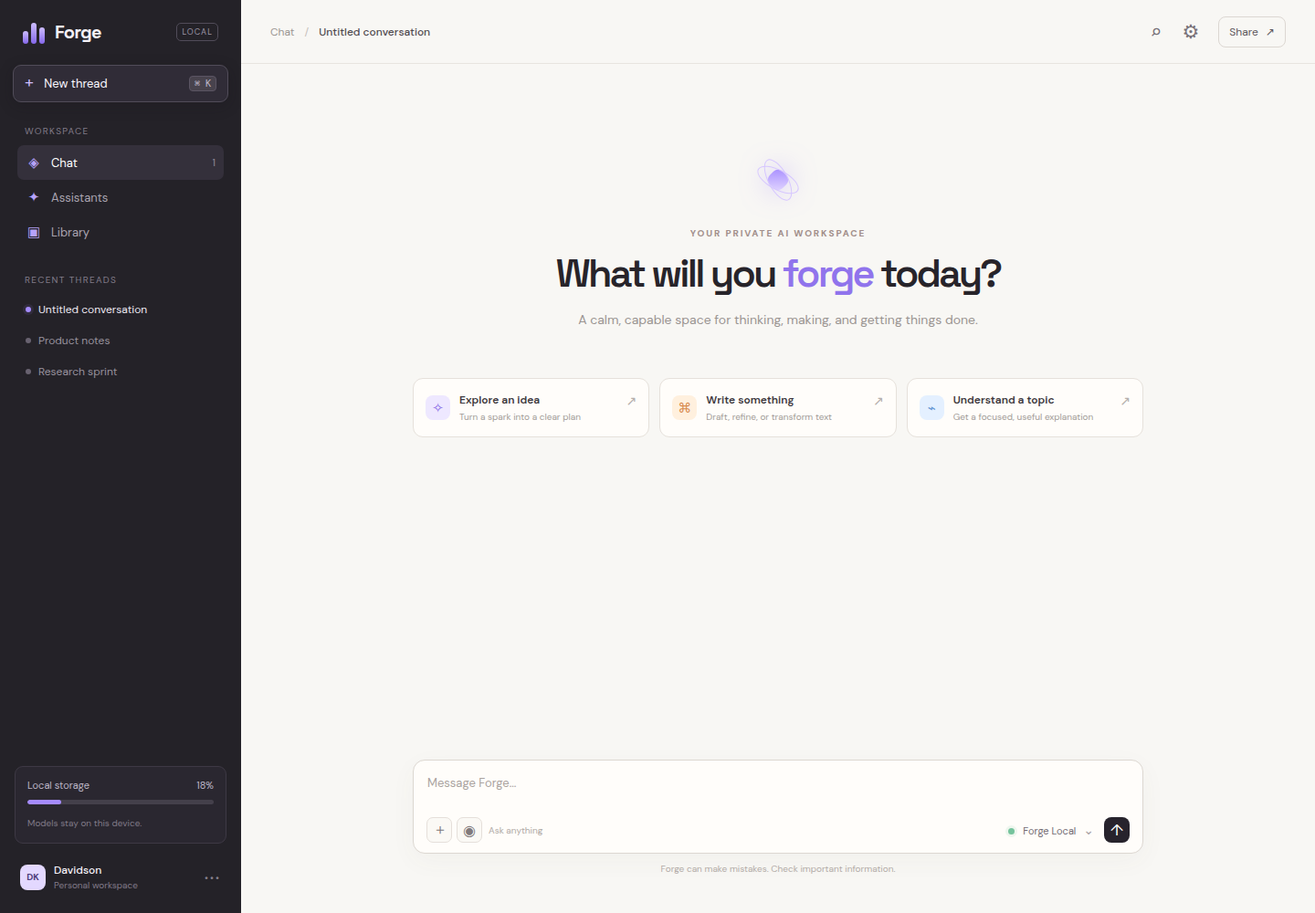
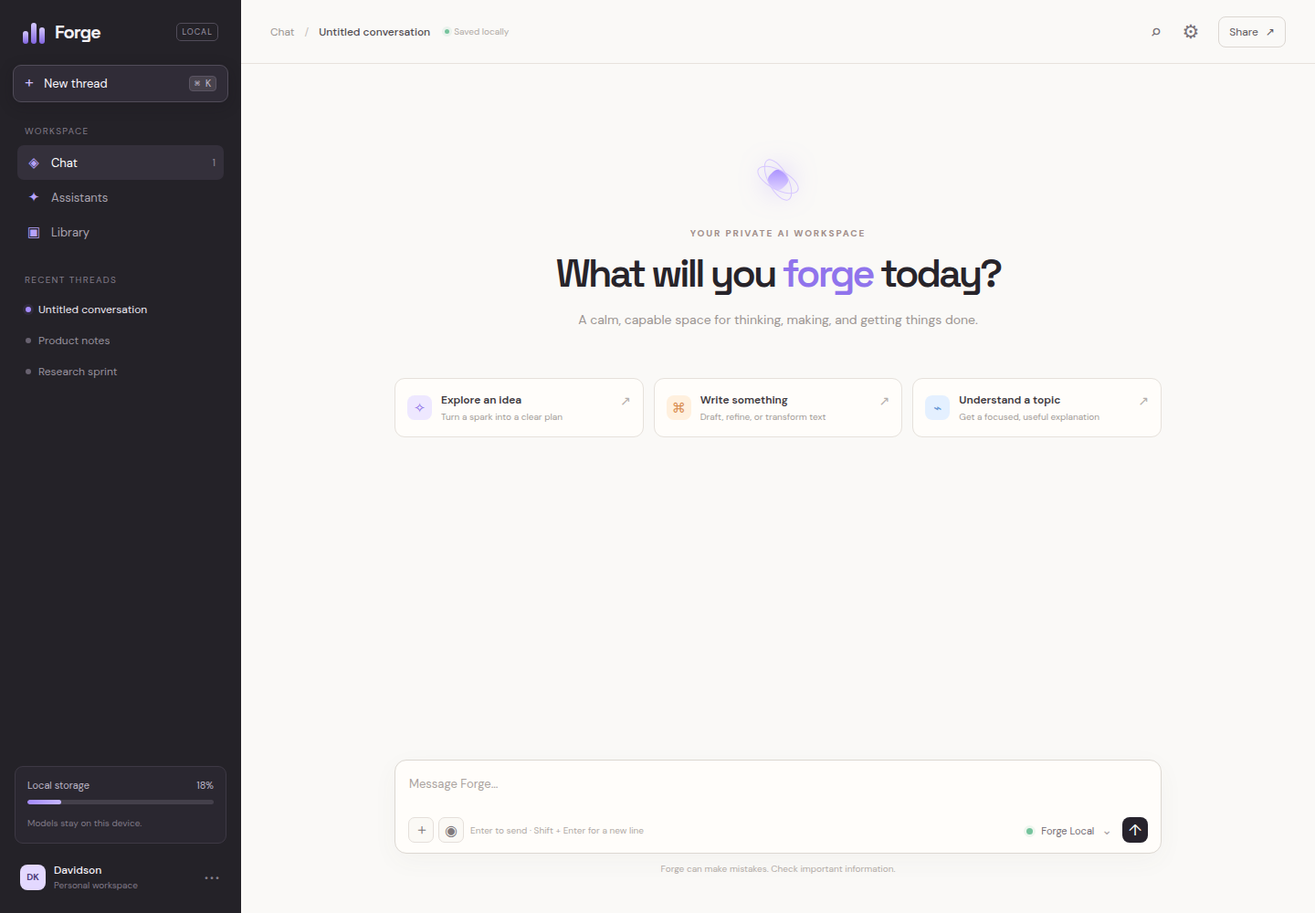
Refine Forge UI with polished interaction states

diff --git a/styles.css b/styles.css
@@ -1,1 +1,1 @@
-:root{--ink:#16151a;--muted:#85818a;--line:#e8e4df;--paper:#f8f7f4;--panel:#242228;--panel-soft:#2d2a32;--accent:#a58bff;--accent-2:#d7c9ff;--orange:#f2a36d}*{box-sizing:border-box}body{margin:0;background:var(--paper);color:var(--ink);font-family:'DM Sans',sans-serif}button,textarea{font:inherit}.app-shell{display:flex;min-height:100vh}.sidebar{width:264px;background:var(--panel);color:#f4f1f6;padding:22px 14px 16px;display:flex;flex-direction:column}.brand-row{display:flex;align-items:center;gap:10px;padding:0 11px 23px}.brand-name{font-family:'Space Grotesk',sans-serif;font-size:20px;font-weight:700;letter-spacing:-.04em}.brand-badge{font-size:9px;letter-spacing:.12em;color:#9d96a7;border:1px solid #514c59;border-radius:5px;padding:3px 5px;margin-left:auto}.forge-mark{height:25px;width:25px;display:flex;align-items:flex-end;gap:3px}.forge-mark span{display:block;width:6px;border-radius:5px;background:linear-gradient(#cdbdff,#8467ea)}.forge-mark span:nth-child(1){height:14px}.forge-mark span:nth-child(2){height:23px}.forge-mark span:nth-child(3){height:18px}.new-chat{width:100%;border:1px solid #514c59;background:#302c37;color:#faf8ff;border-radius:9px;padding:11px 12px;text-align:left;font-size:13px;cursor:pointer;box-shadow:0 4px 15px #15141a44}.new-chat:hover{background:#383441}.plus{font-size:18px;line-height:0;margin-right:8px;color:#cdbdff}.new-chat kbd{float:right;background:#48434d;border:1px solid #5b5563;color:#beb7c8;border-radius:4px;padding:2px 5px;font-size:10px}.side-section{padding:25px 5px 0}.section-label{color:#817b89;text-transform:uppercase;letter-spacing:.13em;font-size:10px;margin:0 8px 9px}.nav-item,.thread-item{width:100%;border:0;background:transparent;color:#aaa4b0;display:flex;align-items:center;gap:10px;text-align:left;border-radius:7px;padding:9px 9px;font-size:13px;cursor:pointer}.nav-item.active,.nav-item:hover,.thread-item:hover{background:#34303b;color:#fff}.nav-icon{width:18px;color:#b6a2fa;text-align:center;font-size:15px}.nav-count{margin-left:auto;color:#938d9c;font-size:11px}.recent-section{padding-top:27px}.thread-item{font-size:12px;color:#98929e;gap:8px}.thread-item.selected{color:#eee9f3}.thread-dot{height:6px;width:6px;border-radius:50%;background:#a58bff;box-shadow:0 0 0 3px #a58bff1a}.thread-dot.dim{background:#686270;box-shadow:none}.sidebar-bottom{margin-top:auto}.usage-card{padding:13px;margin:0 2px 13px;border:1px solid #3e3945;background:#2a2730;border-radius:9px}.usage-top{display:flex;justify-content:space-between;color:#beb7c8;font-size:11px}.usage-bar{height:5px;background:#44404b;border-radius:8px;margin:9px 0 8px;overflow:hidden}.usage-bar i{display:block;width:18%;height:100%;background:#a58bff;border-radius:8px}.usage-card small{color:#817b89;font-size:10px}.account{width:100%;border:0;background:transparent;color:#f7f3fa;display:flex;align-items:center;text-align:left;gap:9px;padding:8px;cursor:pointer;border-radius:8px}.account:hover{background:#302d37}.avatar{display:grid;place-items:center;width:28px;height:28px;border-radius:8px;background:#e3d8ff;color:#4d3a79;font-size:10px;font-weight:700}.account strong,.account small{display:block}.account strong{font-size:12px;font-weight:500}.account small{color:#827b8a;font-size:10px;margin-top:2px}.more{margin-left:auto;color:#898290;font-size:11px;letter-spacing:2px}.main-panel{flex:1;min-width:0;background:var(--paper)}.topbar{height:70px;border-bottom:1px solid var(--line);display:flex;align-items:center;justify-content:space-between;padding:0 32px}.breadcrumbs{display:flex;gap:11px;align-items:center;color:#9b9692;font-size:12px}.breadcrumbs strong{font-weight:500;color:#504b50}.crumb-separator{color:#c6c0bb}.top-actions{display:flex;align-items:center;gap:7px}.icon-button,.share-button{border:0;background:transparent;color:#777178;cursor:pointer}.icon-button{font-size:21px;width:31px;height:31px;border-radius:8px}.icon-button:hover{background:#ece9e4}.share-button{margin-left:8px;border:1px solid #dcd7d2;border-radius:8px;padding:8px 11px;color:#5e585d;font-size:12px}.share-button span{margin-left:5px}.chat-stage{max-width:880px;margin:0 auto;padding:98px 40px 42px;min-height:calc(100vh - 70px);display:flex;flex-direction:column}.welcome-block{text-align:center}.orbital-mark{width:58px;height:58px;margin:0 auto 23px;position:relative;display:grid;place-items:center}.orb-core{width:20px;height:20px;border-radius:7px;background:linear-gradient(135deg,#a58bff,#e4d9ff);box-shadow:0 0 30px #a58bff99;transform:rotate(45deg)}.orb-ring{position:absolute;border:1px solid #d5c5ff;border-radius:50%;transform:rotate(-28deg)}.ring-one{height:50px;width:22px}.ring-two{height:22px;width:50px;transform:rotate(28deg)}.eyebrow{margin:0 0 10px;color:#a18e8a;font-size:10px;letter-spacing:.19em;font-weight:700}.welcome-block h1{font-family:'Space Grotesk',sans-serif;font-size:43px;letter-spacing:-.065em;margin:0;color:#27242a;font-weight:600}.welcome-block h1 em{font-style:normal;color:#9074ec}.subcopy{font-size:14px;color:#9a9491;margin:14px 0 0}.starter-grid{display:grid;grid-template-columns:repeat(3,1fr);gap:11px;margin-top:55px}.starter-card{border:1px solid #e6e1db;background:#fffdfa;border-radius:11px;padding:15px 13px;display:flex;align-items:center;gap:10px;text-align:left;cursor:pointer;transition:transform .18s,box-shadow .18s,border-color .18s}.starter-card:hover{transform:translateY(-2px);border-color:#cbbaf7;box-shadow:0 10px 22px #443c2e0a}.starter-card strong,.starter-card small{display:block}.starter-card strong{font-size:12px;color:#3e393e;font-weight:600}.starter-card small{font-size:10px;color:#a29c98;margin-top:4px;line-height:1.3}.card-icon{width:27px;height:27px;border-radius:8px;display:grid;place-items:center;font-size:15px;flex:none}.violet{background:#eee8ff;color:#8f72e8}.amber{background:#fff0de;color:#d88b4f}.blue{background:#e4f0ff;color:#6597d5}.arrow{color:#b5afac;margin-left:auto;font-size:14px;align-self:flex-start}.composer-wrap{margin-top:auto;padding-top:74px}.composer{background:#fffdfa;border:1px solid #dcd7d1;box-shadow:0 8px 28px #65594c0b;border-radius:13px;padding:14px 14px 10px}.composer:focus-within{border-color:#b8a4f4;box-shadow:0 0 0 3px #b8a4f425}.composer textarea{width:100%;border:0;resize:none;outline:0;min-height:34px;color:#343037;background:transparent;font-size:13px;padding:2px 1px}.composer textarea::placeholder{color:#aaa39f}.composer-toolbar{display:flex;justify-content:space-between;align-items:center;margin-top:8px}.composer-tools,.composer-right{display:flex;align-items:center;gap:5px}.tool-button{height:28px;width:28px;border:1px solid #e5dfda;border-radius:7px;background:#fbf9f5;color:#817a7c;cursor:pointer}.tool-button:hover{background:#f3eee9}.tool-hint{font-size:10px;color:#b0a9a5;margin-left:2px}.model-button{border:0;background:transparent;color:#726a72;font-size:11px;cursor:pointer;padding:6px}.status-dot{display:inline-block;width:7px;height:7px;border-radius:50%;background:#75c39c;margin-right:6px;box-shadow:0 0 0 3px #75c39c1f}.status-dot.cloud{background:#9e8ade}.chevron{font-size:14px;margin-left:5px;color:#aaa2a5}.send-button{width:28px;height:28px;border:0;border-radius:8px;background:#27232c;color:#fff;font-size:17px;cursor:pointer}.send-button:hover{background:#8f72e8}.composer-note{text-align:center;margin:10px 0 0;color:#b3aca8;font-size:10px}.toast{position:fixed;bottom:22px;left:50%;transform:translate(-50%,12px);opacity:0;background:#28242e;color:#fff;padding:9px 13px;border-radius:8px;font-size:12px;transition:.25s;pointer-events:none}.toast.show{opacity:1;transform:translate(-50%,0)}.model-menu{display:none;position:fixed;right:55px;bottom:94px;width:230px;background:#fffdfa;border:1px solid #ded8d2;border-radius:10px;padding:9px;box-shadow:0 15px 40px #4c423b20}.model-menu.open{display:block}.model-menu p{color:#a19b96;text-transform:uppercase;letter-spacing:.12em;font-size:9px;margin:5px 8px 8px}.model-option{width:100%;display:flex;align-items:center;gap:9px;border:0;background:transparent;border-radius:7px;padding:9px 7px;text-align:left;color:#5a5459;cursor:pointer}.model-option:hover{background:#f3eee9}.model-option span:nth-child(2){flex:1}.model-option strong,.model-option small{display:block}.model-option strong{font-size:11px;font-weight:600}.model-option small{font-size:9px;color:#aaa29d;margin-top:3px}@media(max-width:800px){.sidebar{width:218px}.chat-stage{padding:68px 24px 30px}.starter-grid{grid-template-columns:1fr}.composer-wrap{padding-top:48px}.welcome-block h1{font-size:35px}.topbar{padding:0 20px}}@media(max-width:620px){.sidebar{display:none}.topbar{height:60px}.chat-stage{padding:52px 17px 25px}.welcome-block h1{font-size:31px}.subcopy{font-size:13px}.starter-grid{margin-top:38px}.composer-wrap{padding-top:45px}.top-actions .icon-button:first-child{display:none}}
+:root{--ink:#16151a;--ink-soft:#3e393f;--muted:#8d8785;--line:#e7e2dd;--paper:#faf9f7;--card:#fffdfa;--panel:#242228;--panel-2:#2c2931;--accent:#a58bff;--accent-deep:#8b6fe5;--green:#75c39c;--ease:cubic-bezier(.2,.8,.2,1)}*{box-sizing:border-box}html{background:var(--paper)}body{margin:0;background:var(--paper);color:var(--ink);font-family:'DM Sans',sans-serif;-webkit-font-smoothing:antialiased}button,textarea{font:inherit}button{appearance:none}.app-shell{display:flex;min-height:100vh}.sidebar{width:264px;flex:0 0 264px;background:var(--panel);color:#f4f1f6;padding:22px 14px 16px;display:flex;flex-direction:column}.brand-row{display:flex;align-items:center;gap:10px;padding:0 11px 23px}.brand-name{font-family:'Space Grotesk',sans-serif;font-size:20px;font-weight:700;letter-spacing:-.05em}.brand-badge{font-size:9px;letter-spacing:.12em;color:#9d96a7;border:1px solid #514c59;border-radius:5px;padding:3px 5px;margin-left:auto}.forge-mark{height:25px;width:25px;display:flex;align-items:flex-end;gap:3px}.forge-mark span{display:block;width:6px;border-radius:5px;background:linear-gradient(#d6caff,#8064df)}.forge-mark span:nth-child(1){height:14px}.forge-mark span:nth-child(2){height:23px}.forge-mark span:nth-child(3){height:18px}.new-chat{width:100%;border:1px solid #514c59;background:#302c37;color:#faf8ff;border-radius:9px;padding:11px 12px;text-align:left;font-size:13px;cursor:pointer;box-shadow:0 4px 15px #15141a44;transition:background .18s,transform .18s,border-color .18s}.new-chat:hover{background:#393440;border-color:#6a6275}.new-chat:active{transform:scale(.985)}.plus{font-size:18px;line-height:0;margin-right:8px;color:#cdbdff}.new-chat kbd{float:right;background:#48434d;border:1px solid #5b5563;color:#beb7c8;border-radius:4px;padding:2px 5px;font-size:10px}.side-section{padding:25px 5px 0}.section-label{color:#817b89;text-transform:uppercase;letter-spacing:.13em;font-size:10px;margin:0 8px 9px}.nav-item,.thread-item{width:100%;border:0;background:transparent;color:#aaa4b0;display:flex;align-items:center;gap:10px;text-align:left;border-radius:7px;padding:9px 9px;font-size:13px;cursor:pointer;transition:background .18s,color .18s}.nav-item.active,.nav-item:hover,.thread-item:hover{background:#34303b;color:#fff}.nav-icon{width:18px;color:#b6a2fa;text-align:center;font-size:15px}.nav-count{margin-left:auto;color:#938d9c;font-size:11px}.recent-section{padding-top:27px}.thread-item{font-size:12px;color:#98929e;gap:8px}.thread-title{overflow:hidden;text-overflow:ellipsis;white-space:nowrap}.thread-item.selected{color:#eee9f3}.thread-dot{height:6px;width:6px;flex:0 0 6px;border-radius:50%;background:var(--accent);box-shadow:0 0 0 3px #a58bff1a}.thread-dot.dim{background:#686270;box-shadow:none}.sidebar-bottom{margin-top:auto}.usage-card{padding:13px;margin:0 2px 13px;border:1px solid #3e3945;background:#2a2730;border-radius:9px}.usage-top{display:flex;justify-content:space-between;color:#beb7c8;font-size:11px}.usage-bar{height:5px;background:#44404b;border-radius:8px;margin:9px 0 8px;overflow:hidden}.usage-bar i{display:block;width:18%;height:100%;background:linear-gradient(90deg,#a58bff,#c4b6ff);border-radius:8px}.usage-card small{color:#817b89;font-size:10px}.account{width:100%;border:0;background:transparent;color:#f7f3fa;display:flex;align-items:center;text-align:left;gap:9px;padding:8px;border-radius:8px;cursor:pointer}.account:hover{background:#302d37}.avatar{display:grid;place-items:center;width:28px;height:28px;border-radius:8px;background:#e3d8ff;color:#4d3a79;font-size:10px;font-weight:700}.account strong,.account small{display:block}.account strong{font-size:12px;font-weight:500}.account small{color:#827b8a;font-size:10px;margin-top:2px}.more{margin-left:auto;color:#898290;font-size:11px;letter-spacing:2px}.main-panel{flex:1;min-width:0;background:var(--paper)}.topbar{height:70px;border-bottom:1px solid var(--line);display:flex;align-items:center;justify-content:space-between;padding:0 32px}.breadcrumbs{display:flex;gap:11px;align-items:center;min-width:0;color:#9b9692;font-size:12px}.breadcrumbs strong{font-weight:500;color:#504b50;white-space:nowrap;overflow:hidden;text-overflow:ellipsis}.crumb-separator{color:#c6c0bb}.saved-state{display:inline-flex;align-items:center;gap:5px;color:#b0aaa5;font-size:10px;margin-left:5px;white-space:nowrap}.saved-dot{width:5px;height:5px;border-radius:50%;background:var(--green);box-shadow:0 0 0 3px #75c39c1d}.top-actions{display:flex;align-items:center;gap:7px}.icon-button,.share-button{border:0;background:transparent;color:#777178;cursor:pointer;transition:background .18s,color .18s}.icon-button{font-size:21px;width:31px;height:31px;border-radius:8px}.icon-button:hover{background:#ece9e4;color:#403a40}.share-button{margin-left:8px;border:1px solid #dcd7d2;border-radius:8px;padding:8px 11px;color:#5e585d;font-size:12px}.share-button:hover{background:#fffdfa;border-color:#bdb4ac}.share-button span{margin-left:5px}.chat-stage{max-width:920px;margin:0 auto;padding:98px 40px 42px;min-height:calc(100vh - 70px);display:flex;flex-direction:column;transition:max-width .3s var(--ease)}.welcome-block{text-align:center;transition:opacity .25s,transform .35s var(--ease)}.orbital-mark{width:58px;height:58px;margin:0 auto 23px;position:relative;display:grid;place-items:center}.orb-core{width:20px;height:20px;border-radius:7px;background:linear-gradient(135deg,#a58bff,#e4d9ff);box-shadow:0 0 30px #a58bff99;transform:rotate(45deg)}.orb-ring{position:absolute;border:1px solid #d5c5ff;border-radius:50%;transform:rotate(-28deg)}.ring-one{height:50px;width:22px}.ring-two{height:22px;width:50px;transform:rotate(28deg)}.eyebrow{margin:0 0 10px;color:#a18e8a;font-size:10px;letter-spacing:.19em;font-weight:700}.welcome-block h1{font-family:'Space Grotesk',sans-serif;font-size:43px;letter-spacing:-.065em;margin:0;color:#27242a;font-weight:600}.welcome-block h1 em{font-style:normal;color:#9074ec}.subcopy{font-size:14px;color:#9a9491;margin:14px 0 0}.starter-grid{display:grid;grid-template-columns:repeat(3,1fr);gap:11px;margin-top:55px;transition:opacity .25s,transform .35s var(--ease)}.starter-card{border:1px solid #e6e1db;background:var(--card);border-radius:11px;padding:15px 13px;display:flex;align-items:center;gap:10px;text-align:left;cursor:pointer;transition:transform .18s var(--ease),box-shadow .18s,border-color .18s,background .18s}.starter-card:hover{transform:translateY(-2px);border-color:#cbbaf7;box-shadow:0 10px 22px #443c2e0a;background:#fff}.starter-card:active{transform:translateY(0) scale(.99)}.starter-card strong,.starter-card small{display:block}.starter-card strong{font-size:12px;color:#3e393e;font-weight:600}.starter-card small{font-size:10px;color:#a29c98;margin-top:4px;line-height:1.3}.card-icon{width:27px;height:27px;border-radius:8px;display:grid;place-items:center;font-size:15px;flex:none}.violet{background:#eee8ff;color:#8f72e8}.amber{background:#fff0de;color:#d88b4f}.blue{background:#e4f0ff;color:#6597d5}.arrow{color:#b5afac;margin-left:auto;font-size:14px;align-self:flex-start}.conversation{display:none;flex-direction:column;gap:25px;max-width:760px;width:100%;margin:0 auto 22px;padding-top:20px}.chat-stage.has-messages{padding-top:42px}.chat-stage.has-messages .welcome-block,.chat-stage.has-messages .starter-grid{display:none}.chat-stage.has-messages .conversation{display:flex}.message{display:flex;gap:12px;animation:rise .32s var(--ease) both}.message.user{justify-content:flex-end}.message-avatar{width:28px;height:28px;flex:0 0 28px;border-radius:9px;display:grid;place-items:center;font-size:10px;font-weight:700}.message-avatar.forge{background:#eee8ff;color:#7d62d7}.message-avatar.user{background:#e3d8ff;color:#4d3a79;order:2}.message-body{max-width:75%;font-size:14px;line-height:1.6;color:#454047}.user .message-body{background:#27232c;color:#fff;border-radius:16px 16px 4px 16px;padding:11px 14px}.assistant .message-body{padding-top:3px}.message-label{font-size:10px;font-weight:700;letter-spacing:.08em;text-transform:uppercase;color:#9e9692;margin-bottom:6px}.typing-dots{display:inline-flex;gap:4px;padding:8px 0}.typing-dots i{height:5px;width:5px;border-radius:50%;background:#a58bff;animation:blink 1s infinite}.typing-dots i:nth-child(2){animation-delay:.15s}.typing-dots i:nth-child(3){animation-delay:.3s}@keyframes rise{from{opacity:0;transform:translateY(8px)}to{opacity:1;transform:none}}@keyframes blink{0%,80%,100%{opacity:.25;transform:scale(.8)}40%{opacity:1;transform:scale(1)}}.composer-wrap{margin-top:auto;padding-top:74px}.chat-stage.has-messages .composer-wrap{padding-top:10px}.composer{background:var(--card);border:1px solid #dcd7d1;box-shadow:0 8px 28px #65594c0b;border-radius:13px;padding:14px 14px 10px;transition:border-color .18s,box-shadow .18s}.composer:focus-within{border-color:#b8a4f4;box-shadow:0 0 0 3px #b8a4f425,0 10px 30px #65594c0c}.composer textarea{width:100%;border:0;resize:none;outline:0;min-height:34px;max-height:140px;color:#343037;background:transparent;font-size:13px;line-height:1.5;padding:2px 1px}.composer textarea::placeholder{color:#aaa39f}.composer-toolbar{display:flex;justify-content:space-between;align-items:center;margin-top:8px}.composer-tools,.composer-right{display:flex;align-items:center;gap:5px}.tool-button{height:28px;width:28px;border:1px solid #e5dfda;border-radius:7px;background:#fbf9f5;color:#817a7c;cursor:pointer;transition:background .18s,border-color .18s}.tool-button:hover{background:#f3eee9;border-color:#d7cec6}.tool-hint{font-size:10px;color:#b0a9a5;margin-left:2px}.model-button{border:0;background:transparent;color:#726a72;font-size:11px;cursor:pointer;padding:6px;border-radius:6px}.model-button:hover{background:#f3eee9}.status-dot{display:inline-block;width:7px;height:7px;border-radius:50%;background:var(--green);margin-right:6px;box-shadow:0 0 0 3px #75c39c1f}.status-dot.cloud{background:#9e8ade}.chevron{font-size:14px;margin-left:5px;color:#aaa2a5}.send-button{width:28px;height:28px;border:0;border-radius:8px;background:#27232c;color:#fff;font-size:17px;cursor:pointer;transition:background .18s,transform .18s}.send-button:hover{background:var(--accent-deep)}.send-button:active{transform:scale(.9)}.composer-note{text-align:center;margin:10px 0 0;color:#b3aca8;font-size:10px}.toast{position:fixed;bottom:22px;left:50%;transform:translate(-50%,12px);opacity:0;background:#28242e;color:#fff;padding:9px 13px;border-radius:8px;font-size:12px;transition:.25s;pointer-events:none;box-shadow:0 10px 25px #28242e20}.toast.show{opacity:1;transform:translate(-50%,0)}.model-menu{display:none;position:fixed;right:55px;bottom:94px;width:230px;background:var(--card);border:1px solid #ded8d2;border-radius:10px;padding:9px;box-shadow:0 15px 40px #4c423b20;z-index:5}.model-menu.open{display:block;animation:rise .18s var(--ease)}.model-menu p{color:#a19b96;text-transform:uppercase;letter-spacing:.12em;font-size:9px;margin:5px 8px 8px}.model-option{width:100%;display:flex;align-items:center;gap:9px;border:0;background:transparent;border-radius:7px;padding:9px 7px;text-align:left;color:#5a5459;cursor:pointer}.model-option:hover{background:#f3eee9}.model-option span:nth-child(2){flex:1}.model-option strong,.model-option small{display:block}.model-option strong{font-size:11px;font-weight:600}.model-option small{font-size:9px;color:#aaa29d;margin-top:3px}@media(max-width:800px){.sidebar{width:218px;flex-basis:218px}.chat-stage{padding:68px 24px 30px}.starter-grid{grid-template-columns:1fr}.composer-wrap{padding-top:48px}.welcome-block h1{font-size:35px}.topbar{padding:0 20px}.saved-state{display:none}}@media(max-width:620px){.sidebar{display:none}.topbar{height:60px;padding:0 14px}.breadcrumbs{gap:8px;font-size:11px}.top-actions{gap:2px}.chat-stage{padding:52px 17px 25px;min-height:calc(100vh - 60px)}.welcome-block h1{font-size:31px;line-height:1.1}.subcopy{font-size:13px;line-height:1.5}.starter-grid{margin-top:38px;gap:10px}.starter-card{padding:14px 12px}.composer-wrap{padding-top:45px}.composer{padding:12px 11px 9px}.tool-hint{display:none}.model-button{font-size:10px}.top-actions .icon-button:first-child{display:none}.share-button{margin-left:2px}.chat-stage.has-messages{padding-top:26px}.message-body{max-width:82%;font-size:13px}}

diff --git a/index.html b/index.html
@@ -3,6 +3,7 @@
   <head>
     <meta charset="UTF-8" />
     <meta name="viewport" content="width=device-width, initial-scale=1.0" />
+    <meta name="theme-color" content="#242228" />
     <title>Forge — local intelligence workspace</title>
     <link rel="preconnect" href="https://fonts.googleapis.com" />
     <link rel="preconnect" href="https://fonts.gstatic.com" crossorigin />
@@ -11,65 +12,73 @@
   </head>
   <body>
     <div class="app-shell">
-      <aside class="sidebar">
+      <aside class="sidebar" aria-label="Forge navigation">
         <div class="brand-row">
-          <div class="forge-mark"><span></span><span></span><span></span></div>
+          <div class="forge-mark" aria-hidden="true"><span></span><span></span><span></span></div>
           <span class="brand-name">Forge</span>
           <span class="brand-badge">LOCAL</span>
         </div>
 
-        <button class="new-chat" id="newChat"><span class="plus">+</span> New thread <kbd>⌘ K</kbd></button>
+        <button class="new-chat" id="newChat" type="button"><span class="plus">+</span> New thread <kbd>⌘ K</kbd></button>
 
         <div class="side-section">
           <p class="section-label">Workspace</p>
-          <button class="nav-item active"><span class="nav-icon">◈</span> Chat <span class="nav-count">1</span></button>
-          <button class="nav-item"><span class="nav-icon">✦</span> Assistants</button>
-          <button class="nav-item"><span class="nav-icon">▣</span> Library</button>
+          <button class="nav-item active" type="button"><span class="nav-icon">◈</span> Chat <span class="nav-count">1</span></button>
+          <button class="nav-item" type="button"><span class="nav-icon">✦</span> Assistants</button>
+          <button class="nav-item" type="button"><span class="nav-icon">▣</span> Library</button>
         </div>
 
         <div class="side-section recent-section">
           <p class="section-label">Recent threads</p>
-          <button class="thread-item selected"><span class="thread-dot"></span> Untitled conversation</button>
-          <button class="thread-item"><span class="thread-dot dim"></span> Product notes</button>
-          <button class="thread-item"><span class="thread-dot dim"></span> Research sprint</button>
+          <button class="thread-item selected" type="button"><span class="thread-dot"></span> <span class="thread-title">Untitled conversation</span></button>
+          <button class="thread-item" type="button"><span class="thread-dot dim"></span> <span class="thread-title">Product notes</span></button>
+          <button class="thread-item" type="button"><span class="thread-dot dim"></span> <span class="thread-title">Research sprint</span></button>
         </div>
 
         <div class="sidebar-bottom">
           <div class="usage-card"><div class="usage-top"><span>Local storage</span><span>18%</span></div><div class="usage-bar"><i></i></div><small>Models stay on this device.</small></div>
-          <button class="account"><span class="avatar">DK</span><span><strong>Davidson</strong><small>Personal workspace</small></span><span class="more">•••</span></button>
+          <button class="account" type="button"><span class="avatar">DK</span><span><strong>Davidson</strong><small>Personal workspace</small></span><span class="more">•••</span></button>
         </div>
       </aside>
 
       <main class="main-panel">
         <header class="topbar">
-          <div class="breadcrumbs"><span>Chat</span><span class="crumb-separator">/</span><strong>Untitled conversation</strong></div>
-          <div class="top-actions"><button class="icon-button" aria-label="Search">⌕</button><button class="icon-button" aria-label="Settings">⚙</button><button class="share-button">Share <span>↗</span></button></div>
+          <div class="breadcrumbs"><span>Chat</span><span class="crumb-separator">/</span><strong id="threadName">Untitled conversation</strong><span class="saved-state"><span class="saved-dot"></span> Saved locally</span></div>
+          <div class="top-actions"><button class="icon-button" type="button" aria-label="Search">⌕</button><button class="icon-button" type="button" aria-label="Settings">⚙</button><button class="share-button" type="button">Share <span>↗</span></button></div>
         </header>
 
-        <section class="chat-stage">
-          <div class="welcome-block">
-            <div class="orbital-mark"><div class="orb-core"></div><div class="orb-ring ring-one"></div><div class="orb-ring ring-two"></div></div>
+        <section class="chat-stage" id="chatStage">
+          <div class="welcome-block" id="welcomeBlock">
+            <div class="orbital-mark" aria-hidden="true"><div class="orb-core"></div><div class="orb-ring ring-one"></div><div class="orb-ring ring-two"></div></div>
             <p class="eyebrow">YOUR PRIVATE AI WORKSPACE</p>
             <h1>What will you <em>forge</em> today?</h1>
             <p class="subcopy">A calm, capable space for thinking, making, and getting things done.</p>
           </div>
 
-          <div class="starter-grid">
-            <button class="starter-card"><span class="card-icon violet">✧</span><span><strong>Explore an idea</strong><small>Turn a spark into a clear plan</small></span><span class="arrow">↗</span></button>
-            <button class="starter-card"><span class="card-icon amber">⌘</span><span><strong>Write something</strong><small>Draft, refine, or transform text</small></span><span class="arrow">↗</span></button>
-            <button class="starter-card"><span class="card-icon blue">⌁</span><span><strong>Understand a topic</strong><small>Get a focused, useful explanation</small></span><span class="arrow">↗</span></button>
+          <div class="starter-grid" id="starterGrid">
+            <button class="starter-card" type="button"><span class="card-icon violet">✧</span><span><strong>Explore an idea</strong><small>Turn a spark into a clear plan</small></span><span class="arrow">↗</span></button>
+            <button class="starter-card" type="button"><span class="card-icon amber">⌘</span><span><strong>Write something</strong><small>Draft, refine, or transform text</small></span><span class="arrow">↗</span></button>
+            <button class="starter-card" type="button"><span class="card-icon blue">⌁</span><span><strong>Understand a topic</strong><small>Get a focused, useful explanation</small></span><span class="arrow">↗</span></button>
           </div>
 
+          <div class="conversation" id="conversation" aria-live="polite"></div>
+
           <div class="composer-wrap">
-            <div class="composer" id="composerBox"><textarea id="prompt" rows="1" placeholder="Message Forge..." aria-label="Message Forge"></textarea><div class="composer-toolbar"><div class="composer-tools"><button class="tool-button" title="Attach file">＋</button><button class="tool-button" title="Voice input">◉</button><span class="tool-hint">Ask anything</span></div><div class="composer-right"><button class="model-button" id="modelButton"><span class="status-dot"></span> Forge Local <span class="chevron">⌄</span></button><button class="send-button" id="sendButton" aria-label="Send">↑</button></div></div></div>
+            <div class="composer" id="composerBox">
+              <textarea id="prompt" rows="1" placeholder="Message Forge..." aria-label="Message Forge"></textarea>
+              <div class="composer-toolbar">
+                <div class="composer-tools"><button class="tool-button" type="button" title="Attach file" aria-label="Attach file">＋</button><button class="tool-button" type="button" title="Voice input" aria-label="Voice input">◉</button><span class="tool-hint">Enter to send · Shift + Enter for a new line</span></div>
+                <div class="composer-right"><button class="model-button" id="modelButton" type="button"><span class="status-dot"></span> Forge Local <span class="chevron">⌄</span></button><button class="send-button" id="sendButton" type="button" aria-label="Send message">↑</button></div>
+              </div>
+            </div>
             <p class="composer-note">Forge can make mistakes. Check important information.</p>
           </div>
         </section>
       </main>
     </div>
 
-    <div class="toast" id="toast">New thread ready</div>
-    <div class="model-menu" id="modelMenu"><p>Choose a model</p><button class="model-option chosen"><span class="status-dot"></span><span><strong>Forge Local</strong><small>Fast · private · on device</small></span><span>✓</span></button><button class="model-option"><span class="status-dot cloud"></span><span><strong>Forge Reasoning</strong><small>Deeper thinking · local</small></span></button></div>
+    <div class="toast" id="toast" role="status">New thread ready</div>
+    <div class="model-menu" id="modelMenu" role="menu"><p>Choose a model</p><button class="model-option chosen" type="button" role="menuitem"><span class="status-dot"></span><span><strong>Forge Local</strong><small>Fast · private · on device</small></span><span>✓</span></button><button class="model-option" type="button" role="menuitem"><span class="status-dot cloud"></span><span><strong>Forge Reasoning</strong><small>Deeper thinking · local</small></span></button></div>
     <script src="app.js"></script>
   </body>
 </html>

diff --git a/app.js b/app.js
@@ -2,6 +2,10 @@ const toast = document.getElementById('toast');
 const promptBox = document.getElementById('prompt');
 const modelButton = document.getElementById('modelButton');
 const modelMenu = document.getElementById('modelMenu');
+const chatStage = document.getElementById('chatStage');
+const conversation = document.getElementById('conversation');
+const threadName = document.getElementById('threadName');
+const starterGrid = document.getElementById('starterGrid');
 
 function showToast(message) {
   toast.textContent = message;
@@ -10,26 +14,82 @@ function showToast(message) {
   window.__toastTimer = window.setTimeout(() => toast.classList.remove('show'), 2200);
 }
 
+function resizeComposer() {
+  promptBox.style.height = 'auto';
+  promptBox.style.height = `${Math.min(promptBox.scrollHeight, 140)}px`;
+}
+
+function addMessage(kind, content, label) {
+  const message = document.createElement('div');
+  message.className = `message ${kind}`;
+  message.innerHTML = kind === 'user'
+    ? `<div class="message-avatar user">DK</div><div class="message-body">${content}</div>`
+    : `<div class="message-avatar forge">✦</div><div class="message-body"><div class="message-label">${label || 'Forge Local'}</div>${content}</div>`;
+  conversation.appendChild(message);
+  conversation.scrollIntoView({ behavior: 'smooth', block: 'end' });
+}
+
+function simulateResponse(text) {
+  const typing = document.createElement('div');
+  typing.className = 'message assistant';
+  typing.innerHTML = '<div class="message-avatar forge">✦</div><div class="message-body"><div class="message-label">Forge Local</div><span class="typing-dots"><i></i><i></i><i></i></span></div>';
+  conversation.appendChild(typing);
+  setTimeout(() => {
+    typing.remove();
+    const lower = text.toLowerCase();
+    const response = lower.includes('idea')
+      ? 'Let’s give that spark a shape. Start with the outcome, name the constraint, and choose one small experiment you can finish today.'
+      : lower.includes('write')
+        ? 'A good first pass is ready. Tell me the audience and the feeling you want the piece to leave behind, and we can sharpen it together.'
+        : 'I’m ready to work through that with you. This local preview simulates the conversation surface so you can evaluate the flow before connecting a model.';
+    addMessage('assistant', response);
+  }, 750);
+}
+
+function sendMessage() {
+  const text = promptBox.value.trim();
+  if (!text) {
+    showToast('Write a message to begin');
+    promptBox.focus();
+    return;
+  }
+  if (!chatStage.classList.contains('has-messages')) {
+    chatStage.classList.add('has-messages');
+    starterGrid.setAttribute('aria-hidden', 'true');
+    threadName.textContent = text.length > 28 ? `${text.slice(0, 28)}…` : text;
+  }
+  addMessage('user', text.replace(/[&<>]/g, (char) => ({ '&': '&amp;', '<': '&lt;', '>': '&gt;' }[char])));
+  promptBox.value = '';
+  resizeComposer();
+  simulateResponse(text);
+}
+
 document.getElementById('newChat').addEventListener('click', () => {
   promptBox.value = '';
+  conversation.innerHTML = '';
+  chatStage.classList.remove('has-messages');
+  starterGrid.removeAttribute('aria-hidden');
+  threadName.textContent = 'Untitled conversation';
+  resizeComposer();
   promptBox.focus();
   showToast('New thread ready');
 });
 
 document.querySelectorAll('.starter-card').forEach((card) => {
   card.addEventListener('click', () => {
-    promptBox.value = card.querySelector('strong').textContent + ': ';
+    promptBox.value = `${card.querySelector('strong').textContent}: `;
+    resizeComposer();
     promptBox.focus();
   });
 });
 
-document.getElementById('sendButton').addEventListener('click', () => {
-  if (!promptBox.value.trim()) {
-    showToast('Write a message to begin');
-    promptBox.focus();
-    return;
+document.getElementById('sendButton').addEventListener('click', sendMessage);
+promptBox.addEventListener('input', resizeComposer);
+promptBox.addEventListener('keydown', (event) => {
+  if (event.key === 'Enter' && !event.shiftKey) {
+    event.preventDefault();
+    sendMessage();
   }
-  showToast('UI preview only — no model connected');
 });
 
 modelButton.addEventListener('click', (event) => {
@@ -41,8 +101,18 @@ document.querySelectorAll('.model-option').forEach((option) => {
   option.addEventListener('click', () => {
     const name = option.querySelector('strong').textContent;
     modelButton.innerHTML = `<span class="status-dot"></span> ${name} <span class="chevron">⌄</span>`;
+    document.querySelectorAll('.model-option').forEach((item) => item.classList.remove('chosen'));
+    option.classList.add('chosen');
     modelMenu.classList.remove('open');
     showToast(`${name} selected`);
+  });
+});
+
+document.querySelectorAll('.nav-item').forEach((item) => {
+  item.addEventListener('click', () => {
+    document.querySelectorAll('.nav-item').forEach((nav) => nav.classList.remove('active'));
+    item.classList.add('active');
+    showToast(`${item.textContent.trim()} is a UI preview`);
   });
 });
 
@@ -52,4 +122,6 @@ document.addEventListener('keydown', (event) => {
     event.preventDefault();
     promptBox.focus();
   }
+  if (event.key === 'Escape') modelMenu.classList.remove('open');
 });
+resizeComposer();
